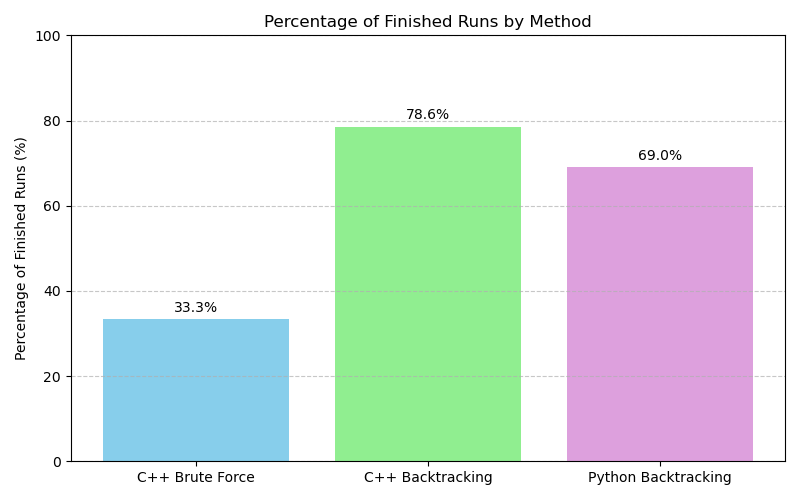
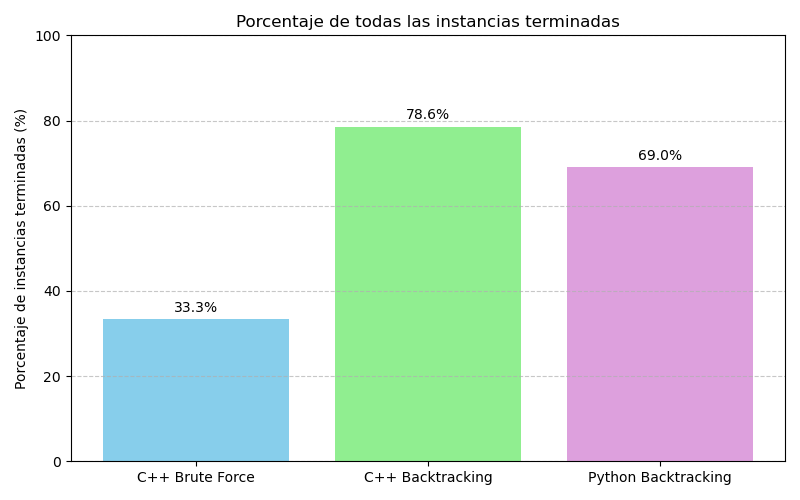
fixed graphs

Changed region(s): [[0.0, 0.21, 0.0312, 0.78], [0.2812, 0.03, 0.7812, 0.06]]

diff --git a/graph_constructors/dnf_percentage_graph_dp.py b/graph_constructors/dnf_percentage_graph_dp.py
@@ -21,19 +21,19 @@ def calculate_finished_percentage(file_path):
 
 # File names and labels
 files = {
-    CSV_DIR / "cpp_bf_results.csv": "C++ Brute Force",
-    CSV_DIR / "cpp_bt_results.csv": "C++ Backtracking",
-    CSV_DIR / "py_bt_results.csv": "Python Backtracking",
-    CSV_DIR / "cpp_dp_results.csv": "C++ Dynamic Programming",
-    CSV_DIR / "py_dp_results.csv": "Python Dynamic Programming"
+    CSV_DIR / "cpp_bf_results.csv": "C++ BF",
+    CSV_DIR / "cpp_bt_results.csv": "C++ BT",
+    CSV_DIR / "py_bt_results.csv": "Python BT",
+    CSV_DIR / "cpp_dp_results.csv": "C++ DP",
+    CSV_DIR / "py_dp_results.csv": "Python DP"
 }
 # Assign group-based colors
 color_map = {
-    "C++ Brute Force": "skyblue",
-    "C++ Backtracking": "lightgreen",
-    "Python Backtracking": "lightgreen",
-    "C++ Dynamic Programming": "plum",
-    "Python Dynamic Programming": "plum"
+    "C++ BF": "skyblue",
+    "C++ BT": "lightgreen",
+    "Python BT": "lightgreen",
+    "C++ DP": "plum",
+    "Python DP": "plum"
 }
 
 # Calculate percentages
@@ -56,8 +56,8 @@ for bar, percentage in zip(bars, percentages):
     yval = bar.get_height()
     plt.text(bar.get_x() + bar.get_width()/2, yval + 1, f'{percentage:.1f}%', ha='center', va='bottom')
 
-plt.ylabel('Percentage of Finished Runs (%)')
-plt.title('Percentage of Finished Runs by Method (No Conflict Instances Only)')
+plt.ylabel('Porcentaje de instancias terminadas (%)')
+plt.title('Porcentaje de las instancias sin conflictos terminadas')
 plt.ylim(0, 115)  # Give some space above 100%
 plt.grid(axis='y', linestyle='--', alpha=0.7)
 plt.tight_layout()

diff --git a/graph_constructors/dnf_percentage_graph_bt.py b/graph_constructors/dnf_percentage_graph_bt.py
@@ -41,8 +41,8 @@ for bar, percentage in zip(bars, percentages):
     yval = bar.get_height()
     plt.text(bar.get_x() + bar.get_width()/2, yval + 1, f'{percentage:.1f}%', ha='center', va='bottom')
 
-plt.ylabel('Percentage of Finished Runs (%)')
-plt.title('Percentage of Finished Runs by Method')
+plt.ylabel('Porcentaje de instancias terminadas (%)')
+plt.title('Porcentaje de todas las instancias terminadas')
 plt.ylim(0, 100)
 plt.grid(axis='y', linestyle='--', alpha=0.7)
 plt.tight_layout()

diff --git a/graph_constructors/times_by_category_cpp_bt.py b/graph_constructors/times_by_category_cpp_bt.py
@@ -58,7 +58,7 @@ plt.xticks(range(min_n, max_n + 1, 10))
 
 plt.xlabel('NumItems (n)')
 plt.ylabel('Tiempo promedio de ejecucion (s) [Escala Log]')
-plt.title('Tiempos promedio por estructura')
+plt.title('Tiempos promedio por estructura C++ BT')
 plt.legend()
 
 plt.grid(True, which="both", ls="--", linewidth=0.5, zorder=0)
